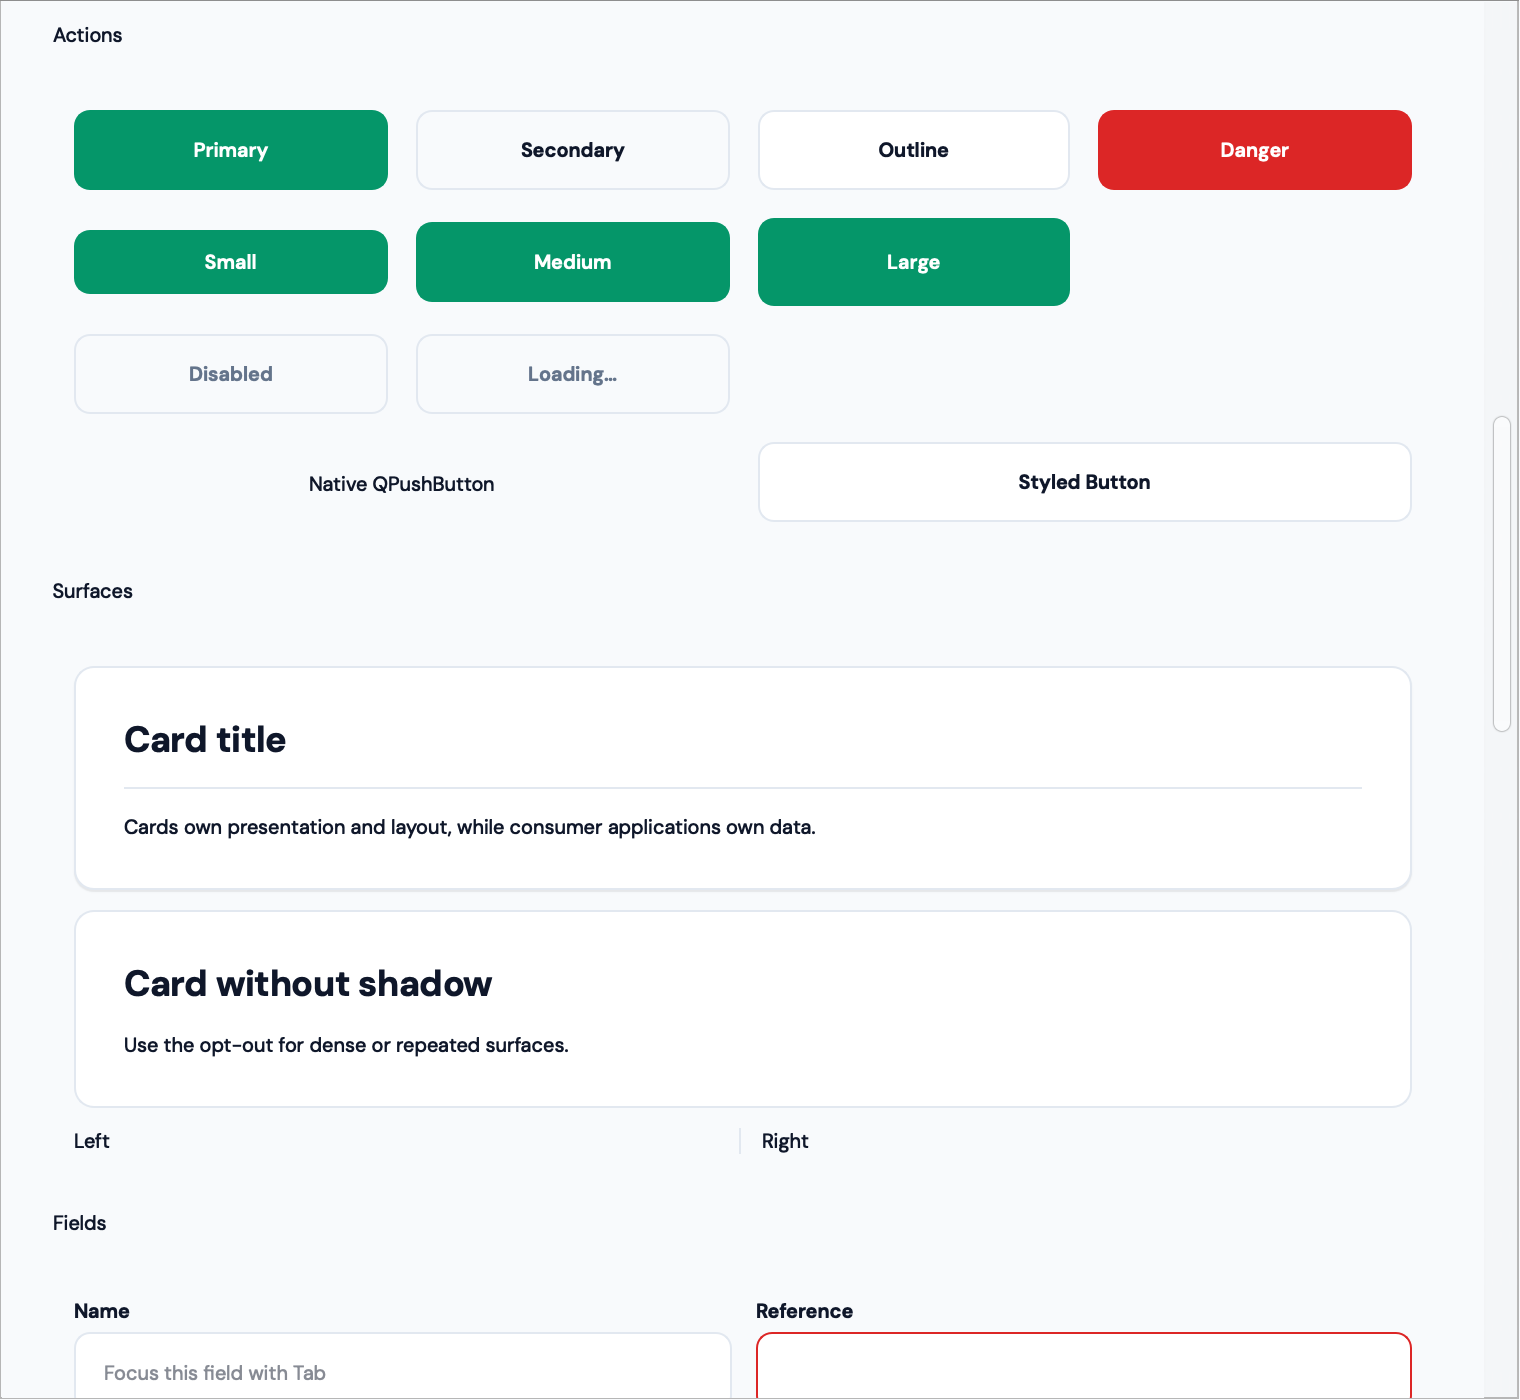
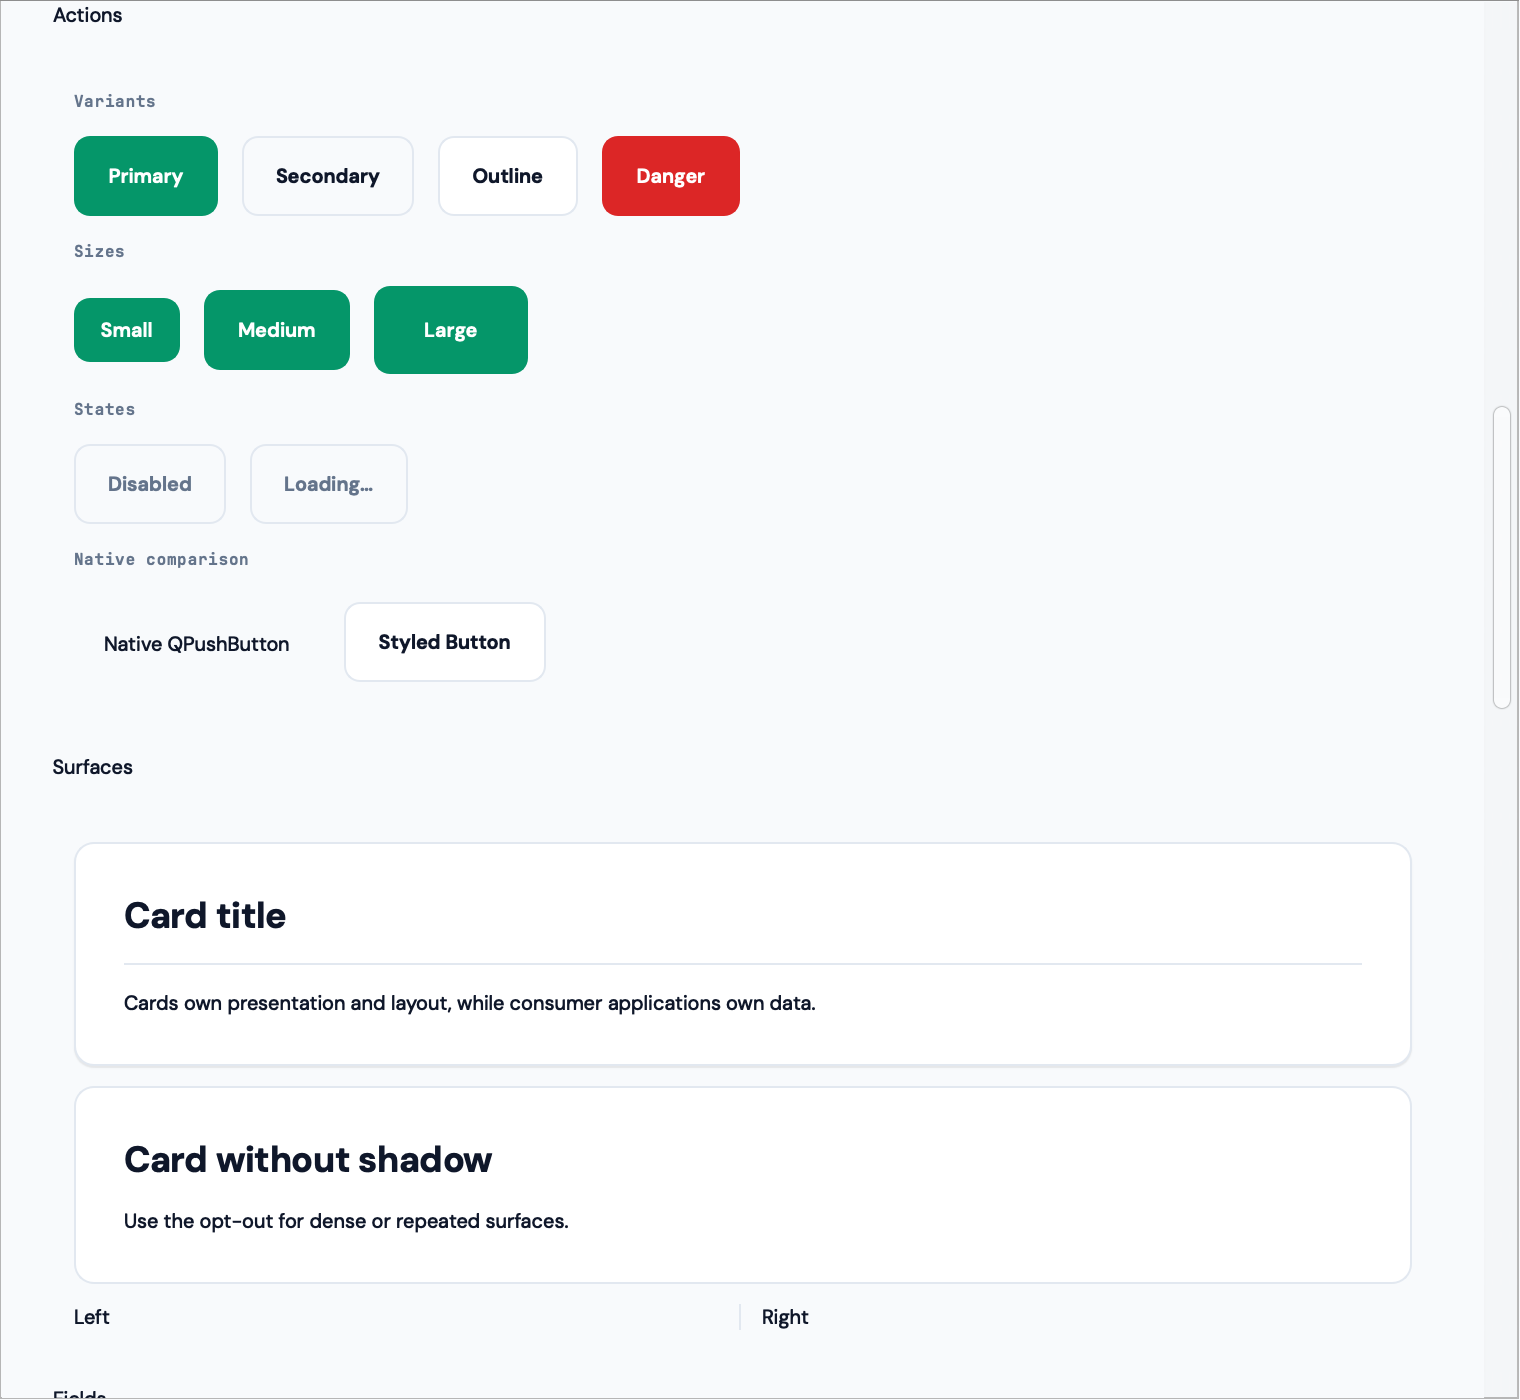
docs: refresh alignment guidance and visual evidence

diff --git a/tasks/09-alignment-round.md b/tasks/09-alignment-round.md
@@ -1,0 +1,172 @@
+# Agent Spec — Align Alp-UI's Base Components with the Polished Showcase
+
+## 1. Objective
+
+Refine `alp-ui` so its **default theme, reusable components, and component gallery naturally reflect the polished visual design demonstrated in `docs/images/showcase.png`**.
+
+The showcase is the visual quality reference, **not an application template to reproduce**.
+
+The component gallery should remain a component gallery. However, the individual components, their default styling, typography, sizing, spacing, surfaces, and interaction states should look like the building blocks of that polished application.
+
+**Core principle:** A developer should be able to install `alp-ui`, call `install_theme(app)`, compose components with ordinary Qt layouts, and obtain a cohesive, polished interface without writing custom stylesheets or manually recreating the showcase's visual language.
+
+Implement this alignment, test it, and regenerate screenshots. Favor the smallest effective changes.
+
+## 2. Understand the Existing Project First
+
+Before modifying code, inspect:
+
+- `README.md`
+- `docs/project/PRIMER.md`
+- `docs/project/SPEC.md`
+- `docs/project/DECISIONS.md`
+- `docs/project/THEME_ALPACA_LIGHT.md`
+- `docs/theme.md` and `docs/components.md`
+- `src/alp_ui/theme/` and `src/alp_ui/components/`
+- `gallery/main.py` and `gallery/showcase.py`
+- Existing tests and screenshot evidence
+
+Treat `docs/images/showcase.png` as the primary visual reference and the current gallery screenshots as the baseline to improve.
+
+Understand the original constraints: reusable PySide6 Qt Widgets, semantic theme tokens, native Qt behavior, minimal targeted styling, and no application-specific frameworks or extra runtime dependencies.
+
+Respect locked project decisions. Document any necessary deviation rather than silently changing the architecture.
+
+## 3. Identify and Correct the Misalignment
+
+Audit the current implementation at three distinct levels.
+
+### A. Library-level appearance
+
+Determine whether the existing theme and components already express the showcase's intended appearance.
+
+Inspect all public component families:
+
+- Buttons and action states
+- Typography and text hierarchy
+- Cards, surfaces, and dividers
+- Text, numeric, and select inputs
+- Checkboxes and switches
+- Badges, alerts, progress, and empty states
+- DataTable headers, rows, borders, and interaction states
+
+Check default dimensions, visual weight, spacing, alignment, typography, color usage, borders, focus, hover, disabled states, and density.
+
+**Where an inconsistency exists in a reusable component, fix it in the library—not in the gallery or showcase.**
+
+### B. Theme-level consistency
+
+Review `ALPACA_LIGHT`, `install_theme()`, and shared token/appearance utilities.
+
+The showcase currently uses `compact` density while the normal theme and gallery default to `standard`. Assess whether the default metrics should be refined so the out-of-the-box appearance is closer to the showcase.
+
+Keep both densities coherent and documented. Do not rely on the showcase's special configuration to conceal weaknesses in the default theme.
+
+Reuse semantic tokens rather than duplicating styling constants across components.
+
+Preserve the existing brand palette and visual identity unless a specific correction is justified.
+
+### C. Gallery presentation
+
+Review how `gallery/main.py` presents components.
+
+Distinguish actual component defects from gallery layout artifacts. For example, its `QGridLayout` stretches buttons horizontally, making them appear much larger than the compact, natural-width buttons in the showcase.
+
+Refine the gallery's presentation so components are displayed at representative sizes, in clear groups, with intentional whitespace and hierarchy.
+
+Use the gallery to demonstrate the library's real visual system, not to invent another visual system.
+
+The gallery should **not** become an application dashboard, acquire application navigation, or require extensive custom styling to look good.
+
+## 4. Implementation Requirements
+
+Make a focused refinement pass following these priorities:
+
+1. **Shared design foundation:** Fix recurring inconsistencies in theme metrics, tokens, density, and typography first.
+2. **Reusable components:** Refine component-level styling only where the existing behavior does not meet the intended visual standard.
+3. **Gallery:** Improve component arrangements and presentation using those same reusable building blocks.
+4. **Showcase:** Remove redundant showcase-specific styling where equivalent reusable library styling is now available. Keep application-specific composition in the showcase.
+5. **Consumer examples:** Ensure the README quickstart and independent consumer example communicate the actual appearance of the installed library.
+
+Avoid introducing unnecessary public components or abstractions. A recurring problem should have one reusable solution; a gallery-only layout problem should stay in the gallery.
+
+Do not introduce a global QSS skin, styling framework, routing system, domain logic, copied third-party UI implementations, or runtime dependencies.
+
+Preserve normal Qt parenting, layouts, signals, model/view behavior, keyboard interaction, accessibility, and theme customization.
+
+Do not rewrite components that already meet the target.
+
+## 5. Testing and Visual Verification
+
+### Automated checks
+
+Run the existing quality pipeline:
+
+```bash
+python -m ruff check .
+python -m ruff format --check .
+python -m pytest
+python -m build
+python -m twine check dist/*
+```
+
+Add or update targeted tests for meaningful changes, especially:
+
+- Default styling and density metrics
+- Theme overrides propagating to components
+- Focus, disabled, and invalid states
+- Sizing and layout behavior
+- Component gallery coverage
+- Public API and native Qt behavior
+- Installed-wheel consumer compatibility
+
+Avoid brittle pixel-perfect assertions across operating systems.
+
+### Screenshots
+
+Regenerate the committed screenshots from the actual running PySide6 implementation:
+
+- `docs/images/gallery-actions.png`
+- `docs/images/gallery-fields.png`
+- `docs/images/gallery-feedback.png`
+- `docs/images/gallery-data.png`
+- `docs/images/showcase.png`
+
+Also capture a minimal consumer using the normal `install_theme(app)` defaults, without custom stylesheets. This is an essential test of the actual library experience.
+
+Use `QWidget.grab()` if desktop screenshot permissions are unavailable, as documented in `docs/evidence.md`. Prefer a small, reproducible capture script instead of a one-off manual process.
+
+Where relevant, inspect standard and compact densities, focus/invalid/disabled states, narrow layouts, and 100%/150% scaling.
+
+Use the showcase as a visual reference, but judge the final component gallery independently. The gallery should look consistent with the showcase without imitating its application structure.
+
+Do not claim Windows visual qualification unless Windows was actually tested.
+
+## 6. Documentation and Deliverables
+
+Update the README and relevant theme/component documentation to reflect the refined default appearance.
+
+Keep the quickstart genuinely minimal. If the library now achieves its intended visual quality without special setup, demonstrate that clearly.
+
+Deliver:
+
+1. The focused code changes.
+2. Updated or added tests, with actual results.
+3. Regenerated gallery and showcase screenshots, plus the minimal consumer capture.
+4. Updated documentation where behavior or defaults changed.
+5. A concise summary of what was previously inconsistent, what changed, and why.
+6. Any remaining cross-platform visual limitations.
+
+Do not stop after producing an implementation plan. Complete the changes and verification within the available environment.
+
+## 7. Definition of Done
+
+The work is complete when:
+
+- **The default library looks polished:** An ordinary PySide6 application using `install_theme(app)` and the public components exhibits the design language of the showcase without requiring bespoke widget styling.
+- **The gallery is representative:** Its screenshots show consistent, appropriately sized, well-presented base components rather than visually disconnected demonstrations.
+- **The showcase is not special-cased unnecessarily:** Its polish results primarily from library components and semantic theme settings, with custom code limited to legitimate application composition.
+- **The architecture remains small:** No new framework, gratuitous component abstractions, dependency expansion, or duplicated styling system has been introduced.
+- **The implementation is verified:** Existing functionality remains intact, relevant tests pass, and refreshed screenshots have been visually inspected.
+
+**Success is not making the gallery look like the showcase. Success is making the library's components good enough that building something like the showcase is straightforward and doesn't require reinventing their appearance.**

diff --git a/docs/project/reports/alignment-round.md b/docs/project/reports/alignment-round.md
@@ -1,0 +1,74 @@
+# Alignment round report — Task 09
+
+Checked on 2026-10-24 against the polished `docs/images/showcase.png` reference.
+
+## Result
+
+The shared Theme and public Components already expressed the Showcase design through
+semantic colors, typography roles, density metrics, stable focus borders, and local
+Component styling. The visible mismatch came primarily from Gallery composition:
+`QGridLayout` expanded Buttons to column width, which obscured their real size hints.
+
+The Gallery now groups Button variants, sizes, and states in natural-width rows,
+keeps Badge examples in a narrow-safe grid, and uses vertical-only catalog scrolling.
+The Showcase uses the Card's shared spacing instead of a local override. The
+independent consumer demonstrates standard density in ordinary Qt layouts without a
+consumer stylesheet, while the Showcase continues to demonstrate the documented
+compact density.
+
+No public API, semantic color, locked density metric, runtime dependency, license, or
+packaging contract changed.
+
+## Changed artifacts
+
+- `gallery/main.py`: representative action/feedback arrangements and narrow layout.
+- `gallery/showcase.py`: removed redundant Card spacing customization.
+- `gallery/capture.py`: reproducible `QWidget.grab()` captures, with each Theme
+  configuration installed in a fresh process.
+- `examples/consumer_app/`: composed default-density example and usage notes.
+- `tests/`: Gallery sizing/narrow-layout, consumer-default, and capture checks.
+- `README.md`, `docs/components.md`, `docs/getting-started.md`, and `docs/theme.md`:
+  default appearance, Qt layout behavior, density intent, and capture instructions.
+- `docs/images/`: refreshed Gallery and Showcase images plus
+  `consumer-default.png`.
+
+The task specification remained a pre-existing user worktree change and was not
+included in implementation commits.
+
+## Automated evidence
+
+Environment: macOS 26.6.2 arm64, CPython 3.13.13, PySide6 6.11.2.
+
+| Check | Result |
+|---|---|
+| `.venv/bin/python -m ruff check .` | Pass |
+| `.venv/bin/python -m ruff format --check .` | Pass |
+| `.venv/bin/python -m pytest` | 69 passed |
+| `.venv/bin/python -m build` | Pass |
+| `.venv/bin/python -m twine check dist/*` | Pass |
+| Fresh external venv, offline wheel install, `consumer_app --smoke` | Pass |
+
+The isolated consumer imported `alp_ui` from its temporary environment's
+`site-packages`, not from the source checkout. Both the default and custom startup
+Theme paths remain covered by the automated consumer test.
+
+## Visual review
+
+The committed images were regenerated from the real PySide6 widgets on macOS Retina:
+
+- Gallery: 760 by 700 logical pixels, standard density.
+- Showcase: 1180 by 790 logical pixels, compact density.
+- Consumer: 600 by 480 logical pixels, standard density, no consumer stylesheet.
+
+The review covered natural action sizing, expanding fields and data surfaces,
+standard and compact density, focus, invalid and disabled states, feedback intents,
+and empty/large model views. An ignored offscreen capture at 480 by 620 logical
+pixels confirmed the Gallery has no visible horizontal scrollbar. An ignored 150%
+scale consumer capture rendered at 900 by 720 pixels without clipping.
+
+## Remaining limitations
+
+This pass did not run on Windows or with Narrator. Windows x86-64 at 100% and 150%
+display scaling, keyboard-only navigation, and screen-reader behavior remain release
+qualification gates. Native rendering may vary by platform; the automated tests avoid
+pixel-perfect comparisons.

diff --git a/README.md b/README.md
@@ -46,6 +46,7 @@ constructing the main window.
 ## A small application
 
 ```python
+from PySide6.QtCore import Qt
 from PySide6.QtWidgets import QApplication, QVBoxLayout, QWidget
 
 from alp_ui.components import Badge, Button, TextInput
@@ -57,6 +58,8 @@ install_theme(app)
 window = QWidget()
 window.setWindowTitle("Example")
 layout = QVBoxLayout(window)
+layout.setContentsMargins(24, 24, 24, 24)
+layout.setSpacing(16)
 
 name = TextInput(label="Name", placeholder="Ada Lovelace")
 status = Badge("Ready", intent="success")
@@ -65,7 +68,7 @@ save.clicked.connect(name.clear)
 
 layout.addWidget(name)
 layout.addWidget(status)
-layout.addWidget(save)
+layout.addWidget(save, 0, Qt.AlignmentFlag.AlignLeft)
 window.show()
 
 app.exec()
@@ -104,16 +107,27 @@ Sidebar component.
 These PNGs were rendered from the current PySide6 Widgets implementation on macOS;
 they are not browser mockups.
 
+Regenerate the full set from the actual Qt widgets with:
+
+```bash
+.venv/bin/python -m gallery.capture
+```
+
 <img src="docs/images/showcase.png" alt="Compact composed application Showcase using the library's Components" width="100%">
 
 <p>
-  <img src="docs/images/gallery-actions.png" alt="Button variants, Cards, and an invalid text field in the native Qt Gallery" width="49%">
+  <img src="docs/images/gallery-actions.png" alt="Natural-width Button variants and Card surfaces in the native Qt Gallery" width="49%">
   <img src="docs/images/gallery-fields.png" alt="Native Qt fields, checkbox, switch, badges, and Alerts in the Gallery" width="49%">
 </p>
 <p>
   <img src="docs/images/gallery-feedback.png" alt="Feedback intent components and a progress bar in the Gallery" width="49%">
   <img src="docs/images/gallery-data.png" alt="10,000-row and empty caller-owned table models in the Gallery" width="49%">
 </p>
+
+This minimal consumer uses the normal `install_theme(app)` defaults and ordinary Qt
+layouts, with no consumer stylesheet or density override:
+
+<img src="docs/images/consumer-default.png" alt="Minimal standard-density consumer using public alp-ui Components" width="600">
 
 ## Brand assets
 

diff --git a/docs/theme.md b/docs/theme.md
@@ -41,6 +41,12 @@ while reducing controls and surface padding:
 Density is chosen at startup. Existing components do not support runtime re-theming;
 reinstalling Theme after constructing widgets is not guaranteed to update them.
 
+Both choices use the same colors, type hierarchy, radii, and interaction states.
+`standard` is the roomier general-purpose default; `compact` is intended for denser
+application screens such as the Showcase. The Component Gallery deliberately uses
+`standard` at representative size hints so the default Theme is evaluated directly,
+not hidden behind the compact option.
+
 ## Shared interaction colors
 
 `theme.appearance.interactions(theme)` derives a single set of hover, pressed,
@@ -93,3 +99,6 @@ Fonts or replace the native `QStyle` object.
 Run `python -m gallery.main` for the Component catalog and
 `python -m gallery.showcase` for an application-like composition. Native rendering
 can vary by operating system and display scale.
+
+Run `python -m gallery.capture` from a checkout to regenerate the committed Gallery,
+Showcase, and standard-density consumer images from `QWidget.grab()`.

diff --git a/examples/consumer_app/README.md b/examples/consumer_app/README.md
@@ -1,8 +1,9 @@
 # Installed-wheel consumer
 
 This example uses only the public wheel API. It creates the one `QApplication`,
-installs the Theme, composes four Components in a native Qt layout, supplies its own
-`QAbstractTableModel`, and handles native signals.
+installs the default Theme, composes public Components in native Qt layouts, supplies
+its own `QAbstractTableModel`, and handles native signals. It does not set a consumer
+stylesheet or select compact density.
 
 Build the distributions, create a fresh virtual environment outside this repository,
 and install the wheel:
@@ -25,3 +26,10 @@ Use `--smoke` with either command for an automated open-and-clean-shutdown check
 Windows, use the environment's `Scripts\python.exe` path instead of `bin/python` and
 place the virtual environment outside the repository in any suitable temporary
 directory.
+
+The committed default rendering is `docs/images/consumer-default.png`. From a source
+checkout, regenerate it together with the Gallery and Showcase images using:
+
+```bash
+.venv/bin/python -m gallery.capture
+```

diff --git a/docs/components.md b/docs/components.md
@@ -25,6 +25,10 @@ save.clicked.connect(save_document)
 save.setLoading(True)
 ```
 
+Button provides a natural size hint, but ordinary Qt layouts remain authoritative: a
+grid column can stretch it, while an aligned row keeps it content-sized. The Gallery
+uses aligned rows so variants and sizes are shown representatively.
+
 ## Text
 
 Use `Text` for styled interface copy. `Text(text, parent=None, *, role="body",
@@ -252,6 +256,10 @@ keyboard focus, and empty or large-model table without a backend:
 ```bash
 python -m gallery.main
 ```
+
+The Gallery uses the default `standard` density and ordinary Qt layouts. Its action
+and feedback examples keep their natural size; fields, Cards, Alerts, progress bars,
+and DataTables expand where width communicates their real layout behavior.
 
 ## Density and interaction
 

diff --git a/docs/getting-started.md b/docs/getting-started.md
@@ -70,6 +70,11 @@ Parenting, enabled state, focus, tooltips, and native signals continue to work n
 Use the Component's documented options for its reusable visual choices and inherited
 Qt methods for ordinary widget behavior.
 
+Qt layouts still decide how space is distributed. Put actions in an aligned horizontal
+row when they should keep their natural width; let fields, Cards, and DataTables expand
+when they should fill the available content area. No consumer stylesheet is required
+for either composition.
+
 ## Think in semantic choices
 
 Visual APIs describe meaning rather than colors. A Button uses variants such as
